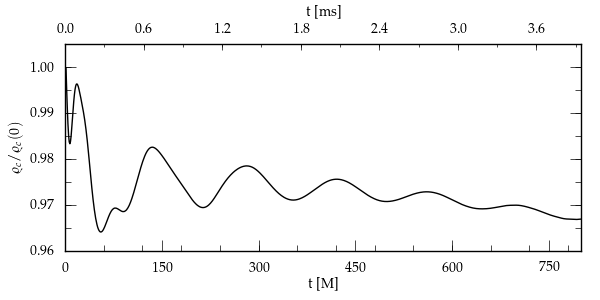
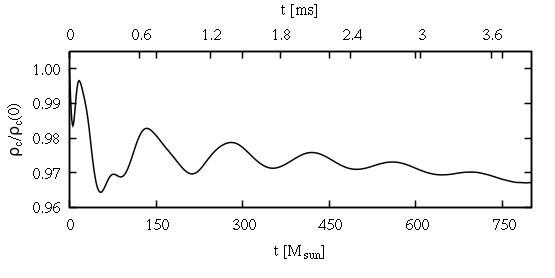
gallery: provide data in TOV example
* provide link to data on bitbucket
* update last tested time
* replace figure with freshly generated one

diff --git a/gallery/ns/index.html b/gallery/ns/index.html
@@ -64,9 +64,16 @@
                 <tr>
                   <th>approx. runtime</th>
 
-                  <td>2.5 SU</td>
+                  <td>2.5 hrs using 1 CPU</td>
+                </tr>
+                <tr>
+                  <th>Results (38MB)</th>
+
+                  <td><a href="https://bitbucket.org/einsteintoolkit/www/downloads/tov-20180731.tar.gz">tov-20180731.tar.gz</a>
+                  </td>
                 </tr>
               </table>
+              This example was last tested on 31-Jul-2018.
               <br/>
               <br/>
               <br/>
